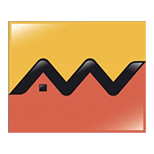
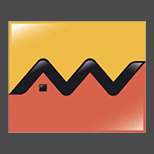
refinements

diff --git a/dist/service-worker.js b/dist/service-worker.js
@@ -14,7 +14,7 @@
 importScripts("https://storage.googleapis.com/workbox-cdn/releases/4.3.1/workbox-sw.js");
 
 importScripts(
-  "/precache-manifest.c598e601d5baa4a04a6648ac08a2df74.js"
+  "/precache-manifest.118078419f24b906d9e0eb1ba94500c2.js"
 );
 
 workbox.core.setCacheNameDetails({prefix: "attijari"});

diff --git a/dist/precache-manifest.118078419f24b906d9e0eb1ba94500c2.js b/dist/precache-manifest.118078419f24b906d9e0eb1ba94500c2.js
@@ -92,7 +92,7 @@ self.__precacheManifest = (self.__precacheManifest || []).concat([
     "url": "/img/pdf.481465ad.png"
   },
   {
-    "revision": "b405c52c522ee198fc9e7c740bfbebd9",
+    "revision": "080dc72cc5d152b0d4448fcb22ee148f",
     "url": "/img/pwa/154x154.png"
   },
   {
